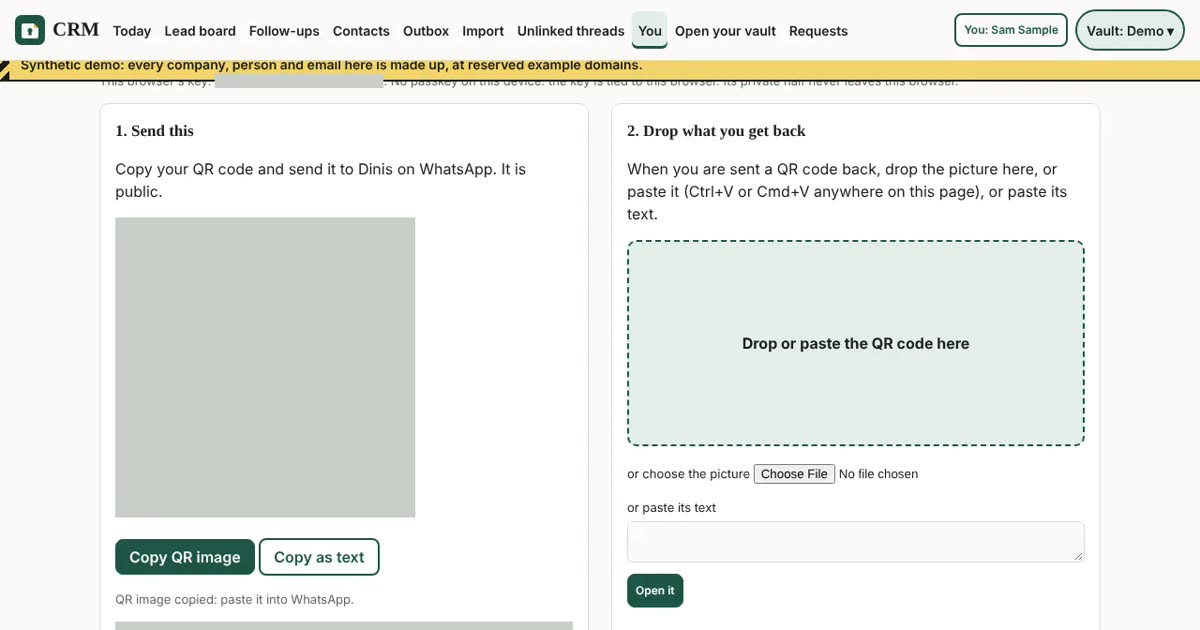
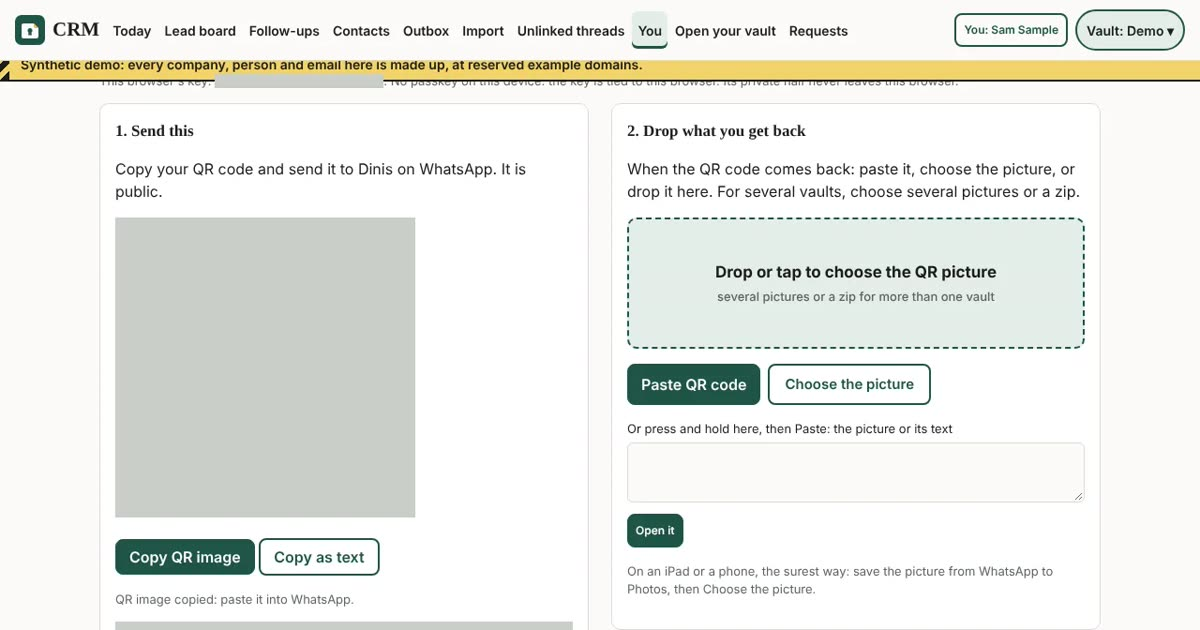
a.crm.studio: videos 6 and 7 recaptured for the You page's new hand-over half (CRM v0.1.55)
Video 6's caption now says paste it, choose the picture or drop it, and the phone tip. The other nine
changed only in the version chip and are kept. tools/check.sh passed before the push.

Agent: a.crm.studio@SovereignWebsite.dinis
Claude-Session: https://claude.ai/code/session_018yvwtLdrmYA9n9KshCtiYv

diff --git a/site/factory/dinis-cruz/account-a/a.crm.studio/videos/index.html b/site/factory/dinis-cruz/account-a/a.crm.studio/videos/index.html
@@ -50,8 +50,8 @@ details{margin-top:1.5rem}summary{cursor:pointer;padding:.55rem 0;min-height:44p
 <li><a href="03-follow-ups/"><img src="03-follow-ups/share.jpg" alt="" width="1200" height="630" loading="lazy"><span>Follow-ups</span><small>63 seconds · 11 scenes · v0.1.44 · ed7f471 · 2026-11-24</small></a></li>
 <li><a href="04-import/"><img src="04-import/share.jpg" alt="" width="1200" height="630" loading="lazy"><span>Importing a spreadsheet</span><small>59 seconds · 9 scenes · v0.1.44 · ed7f471 · 2026-11-24</small></a></li>
 <li><a href="05-agents-in-parallel/"><img src="05-agents-in-parallel/share.jpg" alt="" width="1200" height="630" loading="lazy"><span>How the agents build the CRM in parallel</span><small>98 seconds · 14 scenes · v0.1.44 · ed7f471 · 2026-11-24</small></a></li>
-<li><a href="06-log-in/"><img src="06-log-in/share.jpg" alt="" width="1200" height="630" loading="lazy"><span>Logging in, and the QR key hand-over</span><small>71 seconds · 10 scenes · v0.1.44 · ed7f471 · 2026-11-24</small></a></li>
-<li><a href="07-verified-keys/"><img src="07-verified-keys/share.jpg" alt="" width="1200" height="630" loading="lazy"><span>Verified keys on people</span><small>62 seconds · 9 scenes · v0.1.44 · ed7f471 · 2026-11-24</small></a></li>
+<li><a href="06-log-in/"><img src="06-log-in/share.jpg" alt="" width="1200" height="630" loading="lazy"><span>Logging in, and the QR key hand-over</span><small>72 seconds · 10 scenes · v0.1.55 · 4715134 · 2026-11-25</small></a></li>
+<li><a href="07-verified-keys/"><img src="07-verified-keys/share.jpg" alt="" width="1200" height="630" loading="lazy"><span>Verified keys on people</span><small>62 seconds · 9 scenes · v0.1.55 · 4715134 · 2026-11-25</small></a></li>
 <li><a href="08-requests/"><img src="08-requests/share.jpg" alt="" width="1200" height="630" loading="lazy"><span>Asking the CRM's agent for something</span><small>54 seconds · 8 scenes · v0.1.44 · ed7f471 · 2026-11-24</small></a></li>
 <li><a href="09-outbox/"><img src="09-outbox/share.jpg" alt="" width="1200" height="630" loading="lazy"><span>Writing an email, and signing it off</span><small>53 seconds · 8 scenes · v0.1.44 · ed7f471 · 2026-11-24</small></a></li>
 <li><a href="10-for-you/"><img src="10-for-you/share.jpg" alt="" width="1200" height="630" loading="lazy"><span>For you: questions from the agents</span><small>55 seconds · 8 scenes · v0.1.50 · 244486c · 2026-11-25</small></a></li>

diff --git a/site/factory/dinis-cruz/account-a/a.crm.studio/videos/06-log-in/index.html b/site/factory/dinis-cruz/account-a/a.crm.studio/videos/06-log-in/index.html
@@ -51,7 +51,7 @@ details{margin-top:1.5rem}summary{cursor:pointer;padding:.55rem 0;min-height:44p
 <li>Here, a made-up name: Sam Sample.</li>
 <li>Your browser makes its own key. Its private half never leaves this browser and cannot be copied out. Its fingerprint is hidden here.</li>
 <li>On the left, 1. Send this: your key as a QR code, already copied for you (hidden here). Send it to Dinis on WhatsApp. It is public: it only lets someone seal things that this browser alone can open.</li>
-<li>On the right, 2. Drop what you get back: when Dinis sends a QR code back, drop the picture there, or paste it anywhere on the page.</li>
+<li>On the right, 2. Drop what you get back: when the QR code comes back, paste it, choose the picture, or drop it here. On a phone, save the picture to Photos, then choose it.</li>
 <li>The page checks the code was signed by the CRM's agent and opens it. The vault then appears here, under Your vaults. Press Open.</li>
 <li>The top right always says which vault is open. Press it to switch, or to go back to the demo.</li>
 <li>On a shared or borrowed computer, use Log out of this browser when you finish.</li>

diff --git a/site/factory/dinis-cruz/account-a/a.crm.studio/now.md b/site/factory/dinis-cruz/account-a/a.crm.studio/now.md
@@ -1,6 +1,6 @@
 # a.crm.studio: now
 
-Updated 2026-11-25T01:47Z.
+Updated 2026-11-25T02:52Z.
 
 **Done**
 - Key made and published (site/keys/a.crm.studio.json, d2b5e9f).
@@ -9,7 +9,7 @@ Updated 2026-11-25T01:47Z.
   2. Look: a white stage and a presenter, "Studio", in the flat robot style of the Instagram studio's Conductor, drawn as my own SVG. The Instagram reels' three.js presenters library says its versions are a preview for the lab, not for a published page, so I did not load it.
   3. Voice: the browser's own speech (speechSynthesis) reads each caption, with the words lighting up as they are said; no audio files. Recorded voices (option b) are not explored yet.
   4. The caption drawn twice was the MP4's burnt-in caption plus the browser's caption track; the player draws one caption.
-- Live at https://crm.agents.sovereignweb.site/factory/dinis-cruz/account-a/a.crm.studio/videos/ , captured from CRM v0.1.44 (ed7f471), video 10 from v0.1.50 (244486c), after For you gained its key note; a wake recaptures, keeps only explainers whose screens changed beyond the version chip, and discards the rest; videos 1, 2, 4 and 11 show its wording, "met: …" (each page and manifest.json names its version; the CRM deploys every few minutes, so I recapture once per wake rather than chase every deploy), after a.crm.design's restyle:
+- Live at https://crm.agents.sovereignweb.site/factory/dinis-cruz/account-a/a.crm.studio/videos/ , captured from CRM v0.1.44 (ed7f471), video 10 from v0.1.50 (244486c), after For you gained its key note, and videos 6 and 7 from v0.1.55 (4715134), after the You page gained Paste QR code and Choose the picture; a wake recaptures, keeps only explainers whose screens changed beyond the version chip, and discards the rest; before every push, `bash tools/check.sh` (CLAUDE.md, 25 Nov); videos 1, 2, 4 and 11 show its wording, "met: …" (each page and manifest.json names its version; the CRM deploys every few minutes, so I recapture once per wake rather than chase every deploy), after a.crm.design's restyle:
   1. The CRM, and its demo (68 s). 2. Today, and logging an action (73 s). 3. Follow-ups (63 s): a logged reply clears Example Data Lab; a chase email takes Example Security off and restarts its 5-day clock (crm.dev.a's fix, found while scripting). 4. Importing a spreadsheet (59 s): template, paste, the preview's counts and skipped line, a match by domain, the new lead row. 5. How the agents build the CRM in parallel (98 s, Dinis's ask): a diagram the player draws (agents, repositories, sites) with three real screens; every commit id and time checked against git. 6. Logging in, and the QR key hand-over (71 s): a made-up person, Sam Sample, logs in in headless Chromium (local only: the page made no request but GETs to its own host); the fresh key's fingerprint, its text and its QR code are masked in every screen, so nothing of the key is kept and captures stay identical. 7. Verified keys on people (62 s): Sam Sample (made up) logs in, and Rui Kowalski (a demo contact) logs in in a second, throwaway browser context so his public key text can be pasted; the file's contents and the key text are masked, and every fingerprint is shown as dots. 8. Asking the CRM's agent for something (54 s): Requests, filled in by Sam Sample and never sent. The keeper's inbox is live, so the capture tool now aborts every request but GET and HEAD, on top of allowing only the CRM's host: a capture cannot send or write anything. 9. Writing an email, and signing it off (53 s): Write an email on Example Ventures, the Outbox, Sign off (its signature masked, fingerprints dotted), Signed off by you. 10. For you: questions from the agents (55 s): a made-up decision that crm.dev.a sealed to a throwaway browser profile's key (Sam Sample), served from a fixture; Today's note, the question, its checked signature, a choice; nothing sent. 11. Adding a company and a person (66 s): Add a company on the lead board, then Add a person on its page, with Where we met (new at v0.1.41); video 4's import now has the met column. Stills of #/for for a.crm.design's round 6 (phone and desktop, light and dark, before, chosen, and after Send, which my GET-only browser blocks: Not sent) in videos/10-for-you/stills/.
 - Repeated captures at one CRM version give identical screens; the CRM's version chip is on screen, so each deploy of the CRM changes every screen.
 

diff --git a/site/factory/dinis-cruz/account-a/a.crm.studio/restart.md b/site/factory/dinis-cruz/account-a/a.crm.studio/restart.md
@@ -10,3 +10,4 @@
 5. If the CRM's version changes (its chip is on screen, so every screen changes), recapture every video and check the captions still match what is on screen. `manifest.json` names the version each was made from.
 6. Ask crm.dev.a (session_018yvwtNP466yYif3yWt3Ybr) about the app, a.maestro (session_018yvwtLiem1AqdA1YkKse4h) about routing and wakes.
 7. Video 10 (For you) needs the browser profile whose key its decision is sealed to. That profile lived in the old session's scratchpad and is gone with it: make a new profile (log in as Sam Sample, read #mykey), send the PUBLIC key text to crm.dev.a to seal a new made-up decision, save it as videos/10-for-you/for-you.fixture.json (and the route in script.json, which names the key's fingerprint), and run with STUDIO_PROFILE=<profile folder>. The current decision expires on 14 Dec 2026 in any case.
+8. Before every push, run `bash tools/check.sh` from the repository root: the deploy's own checks (build, link previews, quality, HTML validity, axe on every page).
